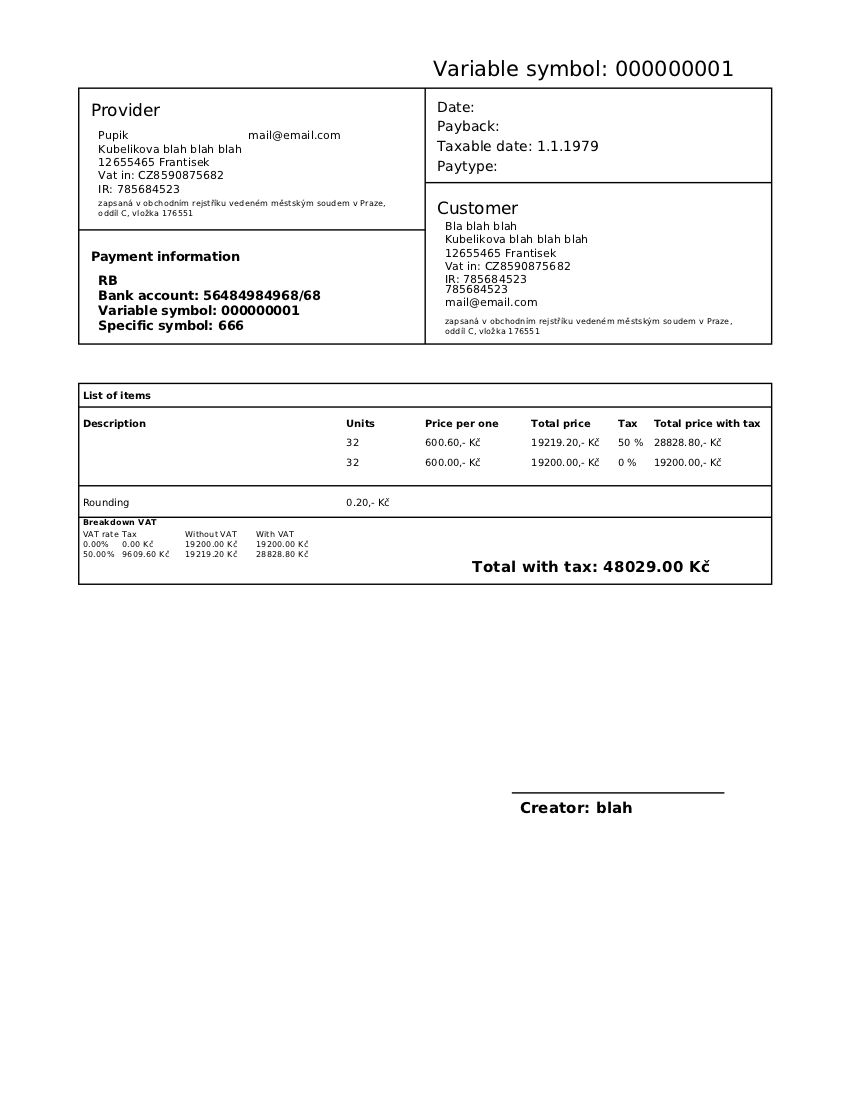
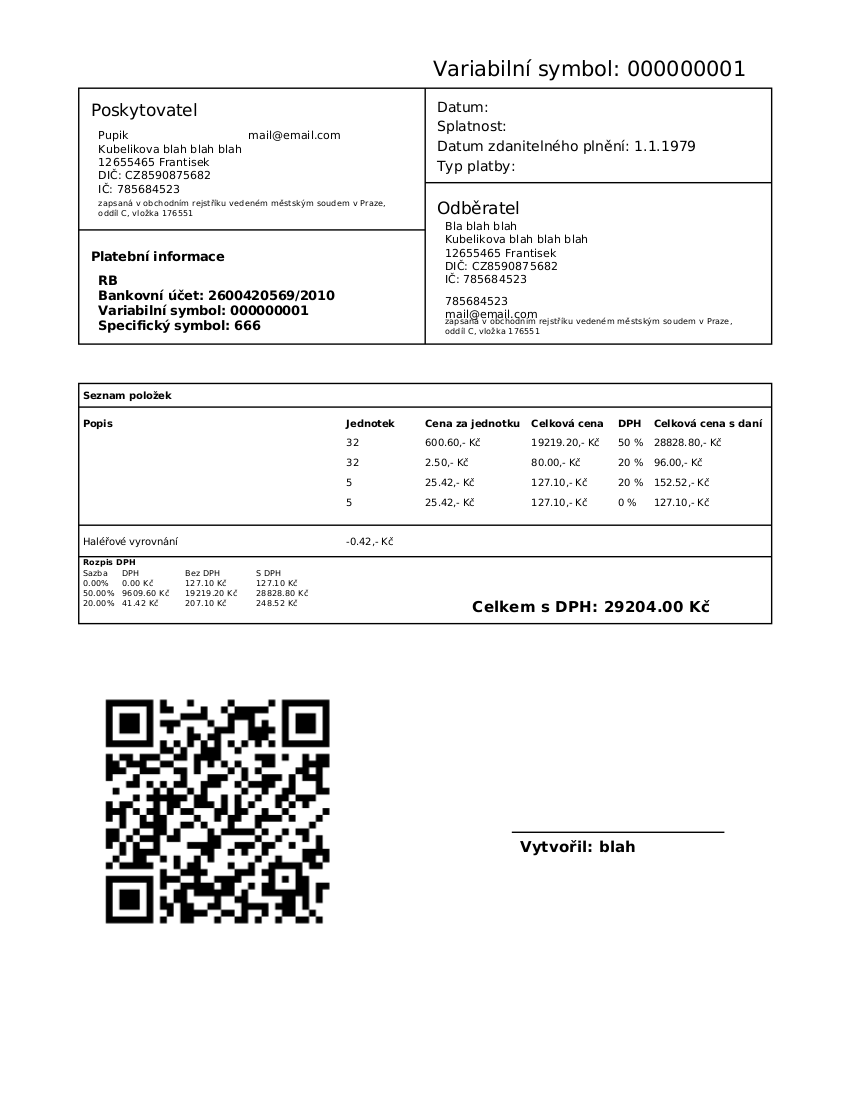
Added support for qr codes (http://qr-platba.cz/)

diff --git a/InvoiceGenerator/pdf.py b/InvoiceGenerator/pdf.py
@@ -9,7 +9,7 @@ from reportlab.pdfbase import pdfmetrics
 from reportlab.platypus.tables import Table, TableStyle
 
 from conf import _, FONT_PATH, FONT_BOLD_PATH
-from api import Invoice
+from api import Invoice, QrCodeBuilder
 
 class BaseInvoice(object):
 
@@ -24,10 +24,16 @@ class BaseInvoice(object):
 
 class SimpleInvoice(BaseInvoice):
 
-    def gen(self, filename):
+    def gen(self, filename, generate_qr_code=False):
         self.TOP = 260
         self.LEFT = 20
         self.filename = filename
+        if generate_qr_code:
+            qr_builder = QrCodeBuilder(self.invoice)
+        else:
+            qr_builder = None
+
+        self.qr_builder = qr_builder
 
         pdfmetrics.registerFont(TTFont('DejaVu', FONT_PATH))
         pdfmetrics.registerFont(TTFont('DejaVu-Bold', FONT_BOLD_PATH))
@@ -51,6 +57,8 @@ class SimpleInvoice(BaseInvoice):
 
         self.pdf.showPage()
         self.pdf.save()
+        if self.qr_builder:
+            self.qr_builder.destroy()
 
     #############################################################
     ## Draw methods
@@ -265,6 +273,14 @@ class SimpleInvoice(BaseInvoice):
             im = Image.open(self.invoice.creator.stamp_filename)
             height = float(im.size[1]) / (float(im.size[0])/200.0)
             self.pdf.drawImage(self.invoice.creator.stamp_filename, (LEFT + 98) * mm, (TOP - i - 72) * mm, 200, height)
+
+        if self.qr_builder:
+            qr_filename = self.qr_builder.filename
+            im = Image.open(qr_filename)
+            height = float(im.size[1]) / (float(im.size[0]) / 200.0)
+            self.pdf.drawImage(qr_filename, LEFT * mm, (TOP - i - 100) * mm,
+                               200, height)
+
 
         path = self.pdf.beginPath()
         path.moveTo((LEFT + 110) * mm, (TOP - i - 70) * mm)

diff --git a/InvoiceGenerator/api.py b/InvoiceGenerator/api.py
@@ -1,4 +1,6 @@
 # -*- coding: utf-8 -*-
+from PIL import Image
+import qrcode
 
 from conf import _
 
@@ -217,3 +219,47 @@ class Correction(Invoice):
 
     def __init__(self, client, provider, creator):
         super(Correction, self).__init__(client, provider, creator)
+
+
+class QrCodeBuilder(object):
+
+    def __init__(self, invoice):
+        """
+        :param invoice: Invoice
+        """
+        self.invoice = invoice
+        self.qr = self._fill(invoice)
+        self.tmp_file = None
+
+    def _fill(self, invoice):
+        from qrplatba import QRPlatbaGenerator
+
+        qr_kwargs = {
+            'account': invoice.provider.bank_account,
+            'amount': invoice.price_tax,
+        }
+        if invoice.variable_symbol:
+            qr_kwargs['x_vs'] = invoice.variable_symbol
+        if invoice.variable_symbol:
+            qr_kwargs['x_ss'] = invoice.specific_symbol
+        if invoice.payback:
+            qr_kwargs['due_date'] = invoice.payback
+        
+        return QRPlatbaGenerator(**qr_kwargs)
+
+    @property
+    def filename(self):
+        from tempfile import NamedTemporaryFile
+        img = qrcode.make(self.qr.get_text())
+
+        self.tmp_file = NamedTemporaryFile(mode='w+b', suffix='.png',
+                                           delete=False)
+        img.save(self.tmp_file)
+        self.tmp_file.close()
+        return self.tmp_file.name
+
+    def destroy(self):
+        if hasattr(self.tmp_file, 'name'):
+            import os
+            os.unlink(self.tmp_file.name)
+

diff --git a/tests/test_pdf.py b/tests/test_pdf.py
@@ -23,7 +23,7 @@ class TestBaseInvoice(unittest.TestCase):
         provider.vat_id = 'CZ8590875682'
         provider.ir = '785684523'
         provider.email = 'mail@email.com'
-        provider.bank_account = '56484984968/68'
+        provider.bank_account = '2600420569/2010'
         provider.bank_name = 'RB'
         provider.note = u'zapsaná v obchodním rejstříku vedeném městským soudem v Praze,\noddíl C, vložka 176551'
 
@@ -50,10 +50,10 @@ class TestBaseInvoice(unittest.TestCase):
         invoice.rounding_result = True
 
 
-        tmp_file = NamedTemporaryFile()
+        tmp_file = NamedTemporaryFile(delete=False)
 
         pdf = SimpleInvoice(invoice)
-        pdf.gen(tmp_file.name)
+        pdf.gen(tmp_file.name, True)
 
 
     def test_generate_with_vat(self):

diff --git a/setup.py b/setup.py
@@ -24,7 +24,7 @@ setup(
         "License :: OSI Approved :: BSD License",
     ],
     install_requires=[
-        "reportlab", "PIL"
+        "reportlab", "PIL", "qrplatba>=0.3.3"
         ],
     package_data={'InvoiceGenerator': ['locale/cs/LC_MESSAGES/*']},
 )

diff --git a/InvoiceGenerator/__init__.py b/InvoiceGenerator/__init__.py
@@ -1,4 +1,4 @@
-VERSION = (0, 4, 0)
+VERSION = (0, 4, 1)
 
 __version__ = VERSION
 __versionstr__ = '.'.join(map(str, VERSION))

diff --git a/README.rst b/README.rst
@@ -27,17 +27,21 @@ Usage::
 
 	from tempfile import NamedTemporaryFile
 
-	from InvoiceGenerator.generator import Generator
 	from InvoiceGenerator.api import Invoice, Item, Client, Provider, Creator
 	from InvoiceGenerator.pdf import SimpleInvoice
 
 
-	invoice = Invoice(Client('Client company'), Provider('My company'), Creator('John Doe'))
+	client = Client('Client company')
+	provider = Provider('My company', bank_account='2600420569/2010')
+	creator = Creator('John Doe')
+
+	invoice = Invoice(client, provider, creator)
 	invoice.add_item(Item(32, 600))
 	invoice.add_item(Item(60, 50, tax=10))
 	invoice.add_item(Item(50, 60, tax=5))
 	invoice.add_item(Item(5, 600, tax=50))
 
 	tmp_file = NamedTemporaryFile()
-	Generator(invoice).gen(tmp_file.name, SimpleInvoice)
+	pdf = SimpleInvoice(invoice)
+	pdf.gen(tmp_file.name, generate_qr_code=True)
 
